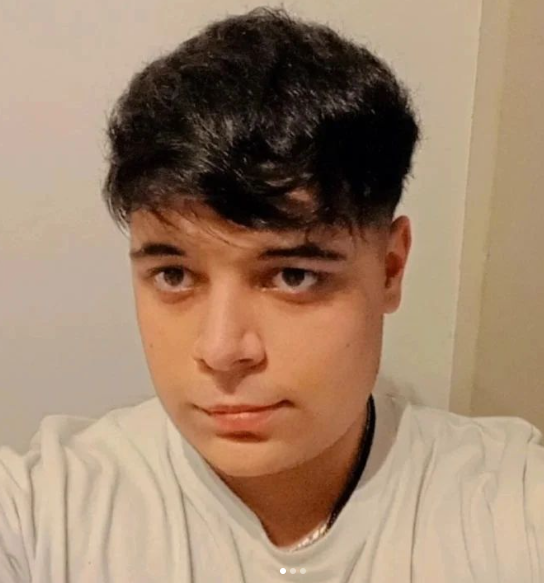
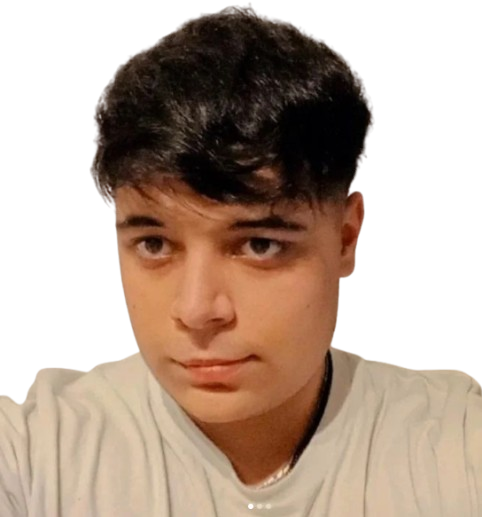
actualizacion foto inicio

diff --git a/src/pages/AboutMe.jsx b/src/pages/AboutMe.jsx
@@ -1,14 +1,21 @@
 import '../assets/css/aboutMe.css'
+import miFoto from '../assets/img/foto2.jpg'
 
 export const AboutMe = () => {
   return (
     <section id='aboutMe'>
+      <div className="container">
         <div className="foto">
-          <img src="../assets/img/foto2.jpg" alt="" />
+          <img src={miFoto} alt="" />
         </div>
         <div className="info">
           <h2>About Me</h2>
+          <p>Hi! I am Santiago Montironi, from Argentina, and I am 22 years old. As a developer passionate about technology, I have a web development startup called FullWeb, focused on creating high-perfomance and customized web applicactions.</p>
+          <p>My projects range from client management systems to interactive e-commerce plataforms, where I prorize optimization and clean code to ensure an excellent user experience.</p>
+          <p>I enjoy exploring new technologies and stay updated in tendences, always in search to improve and learn more with each project.</p>
+          <p>I am open to collaborating and learning together.</p>
         </div>
+      </div>
     </section>
   )
 }

diff --git a/src/assets/css/aboutMe.css b/src/assets/css/aboutMe.css
@@ -1,5 +1,16 @@
 #aboutMe{
     max-width: 100%;
-    height: 100vh;
-    background-color: red;
+    height: 80vh;
+    background-color: #fff;
+}
+
+.container{
+    display: flex;
+    padding: 40px;
+    gap: 60px;
+}
+
+.foto img{
+    width: 350px;
+    height: 450px;
 }

diff --git a/src/assets/css/main.css b/src/assets/css/main.css
@@ -17,7 +17,7 @@
 .contenido img{
     width: 210px;
     border-radius: 99999px;
-    box-shadow: 1px 2px 20px #19e764;
+    filter: drop-shadow(0px 0px 50px #000000);
 }
 
 .contenido img:hover{
